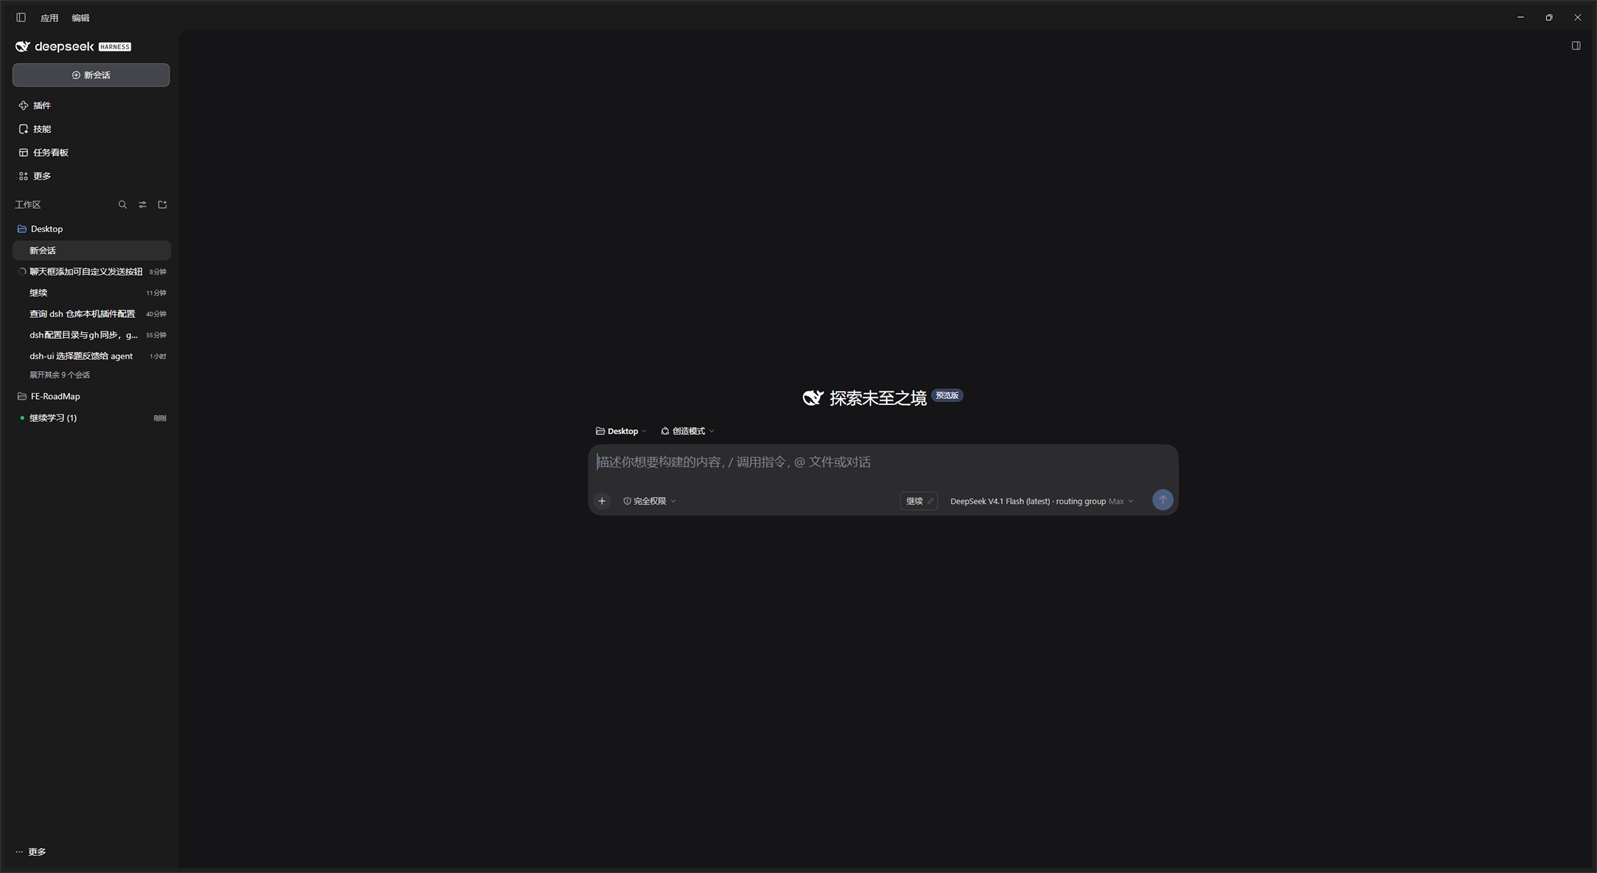
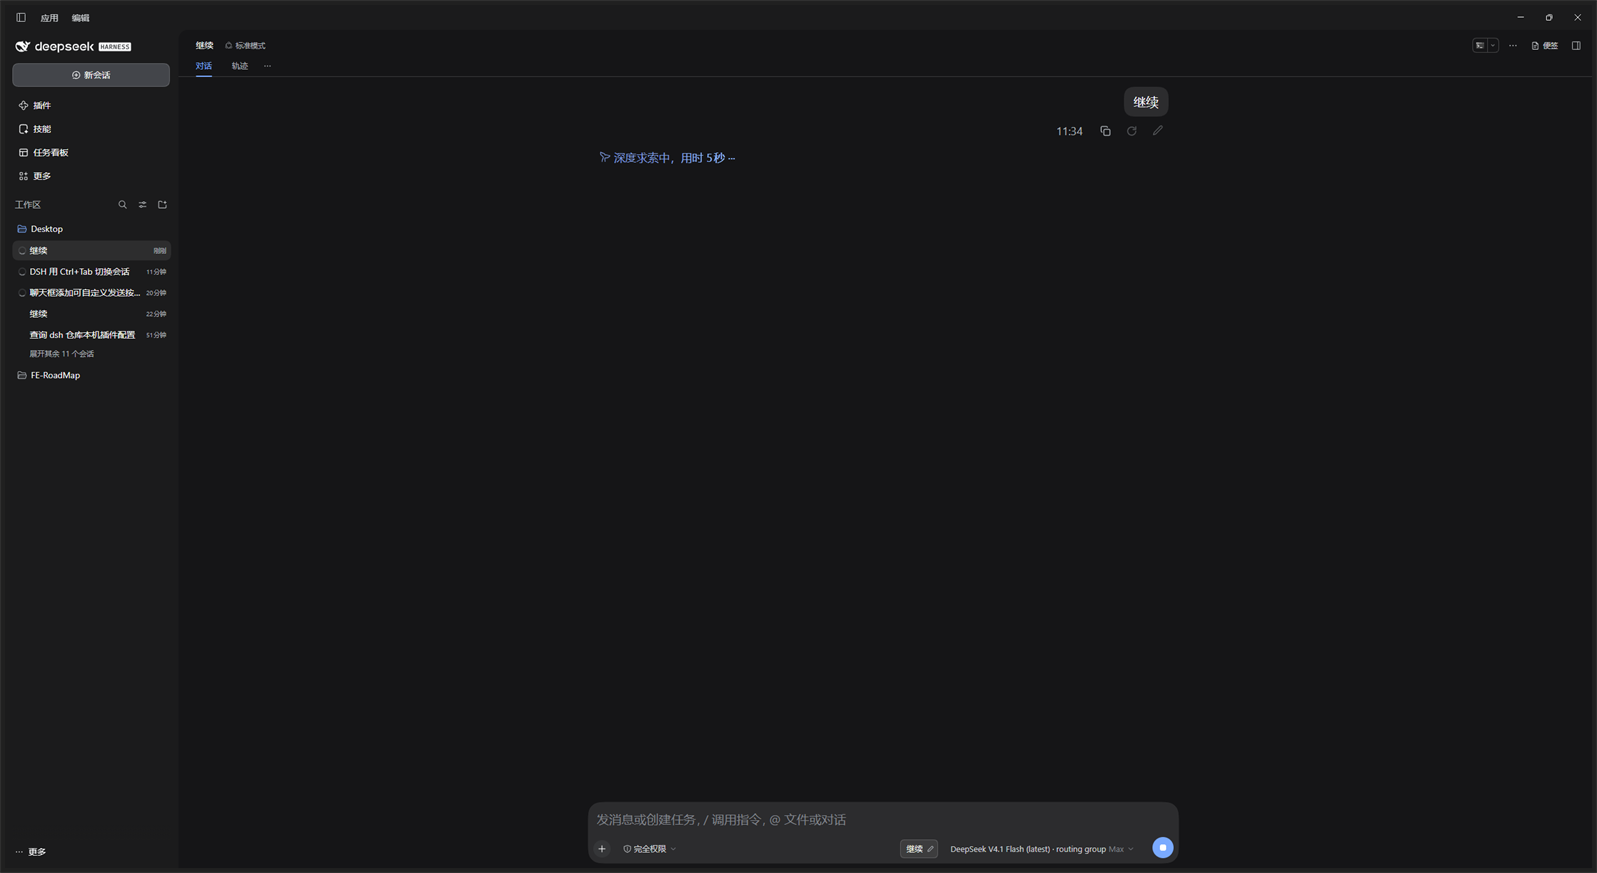
docs: 真实运行截图（按钮 / 编辑态 / 发出后的消息 / 整窗）

diff --git a/README.en.md b/README.en.md
@@ -41,6 +41,10 @@ into the submission before handing it to the submit state machine. So behaviour 
 - the submission carries the button text, so the user's own draft is **put back into the composer** right after;
 - the button is disabled while a send, adjudication, or command claim is in flight.
 
+After the click the conversation holds exactly that message — whatever the button says is what goes out:
+
+![The message sent by the button](docs/images/sent.png)
+
 ## Install
 
 **From the plugin market**: DSH sidebar → **Plugins** → **Discover** → find "发送按钮" → install → enable.

diff --git a/README.md b/README.md
@@ -39,6 +39,10 @@
 - 提交用的是按钮文本，所以紧接着**把用户原来的草稿还回输入框**，不吞你正在写的字；
 - 发送 / 裁决 / 命令态下按钮是禁用的，不去和状态机抢。
 
+点完之后，对话里就是这条消息——按钮上是哪两个字，发出去就是哪两个字：
+
+![点完按钮后发出的消息](docs/images/sent.png)
+
 ## 装
 
 **从插件市场**：DSH 左侧边栏 → **插件** → **发现** → 找到「发送按钮」→ 安装 → 启用。
